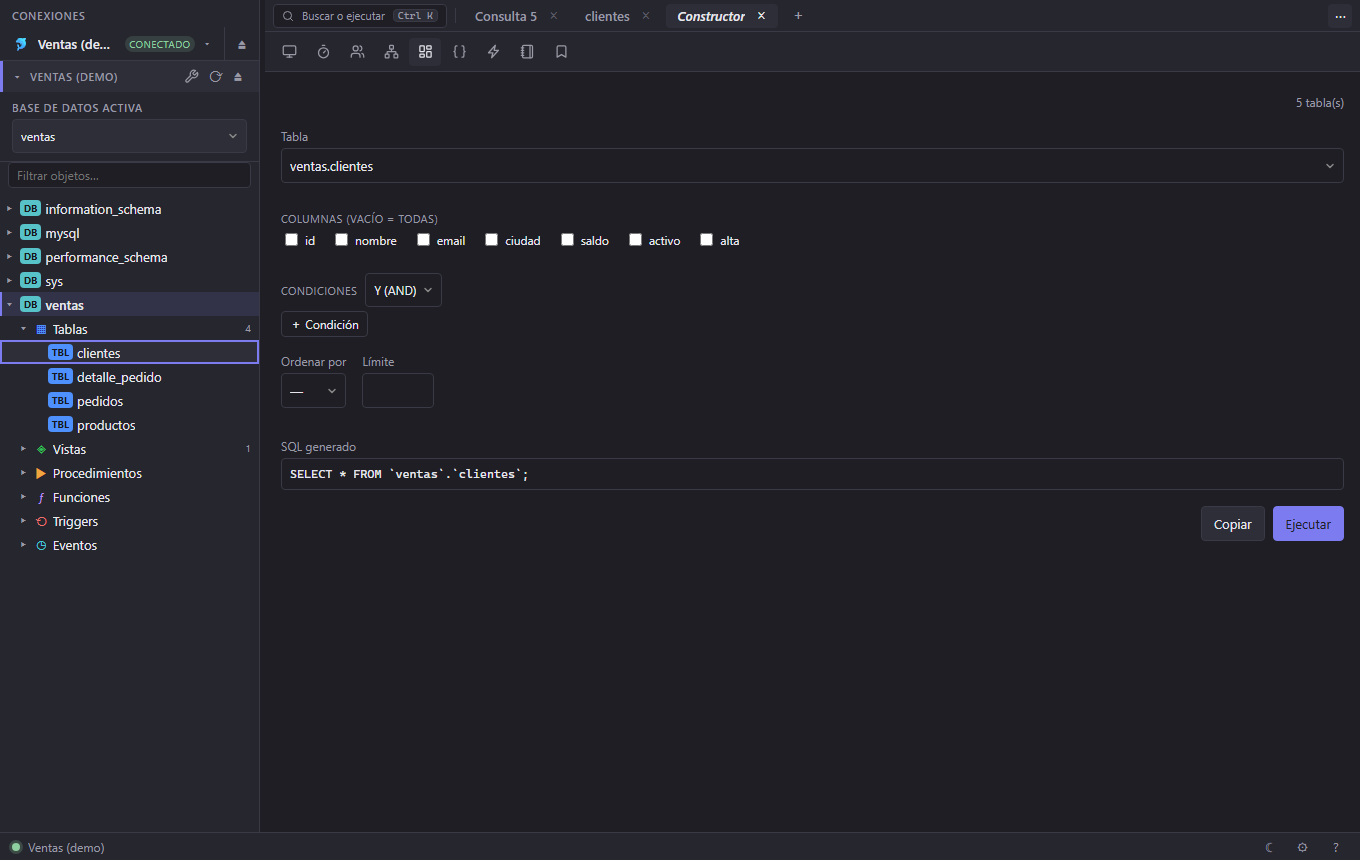
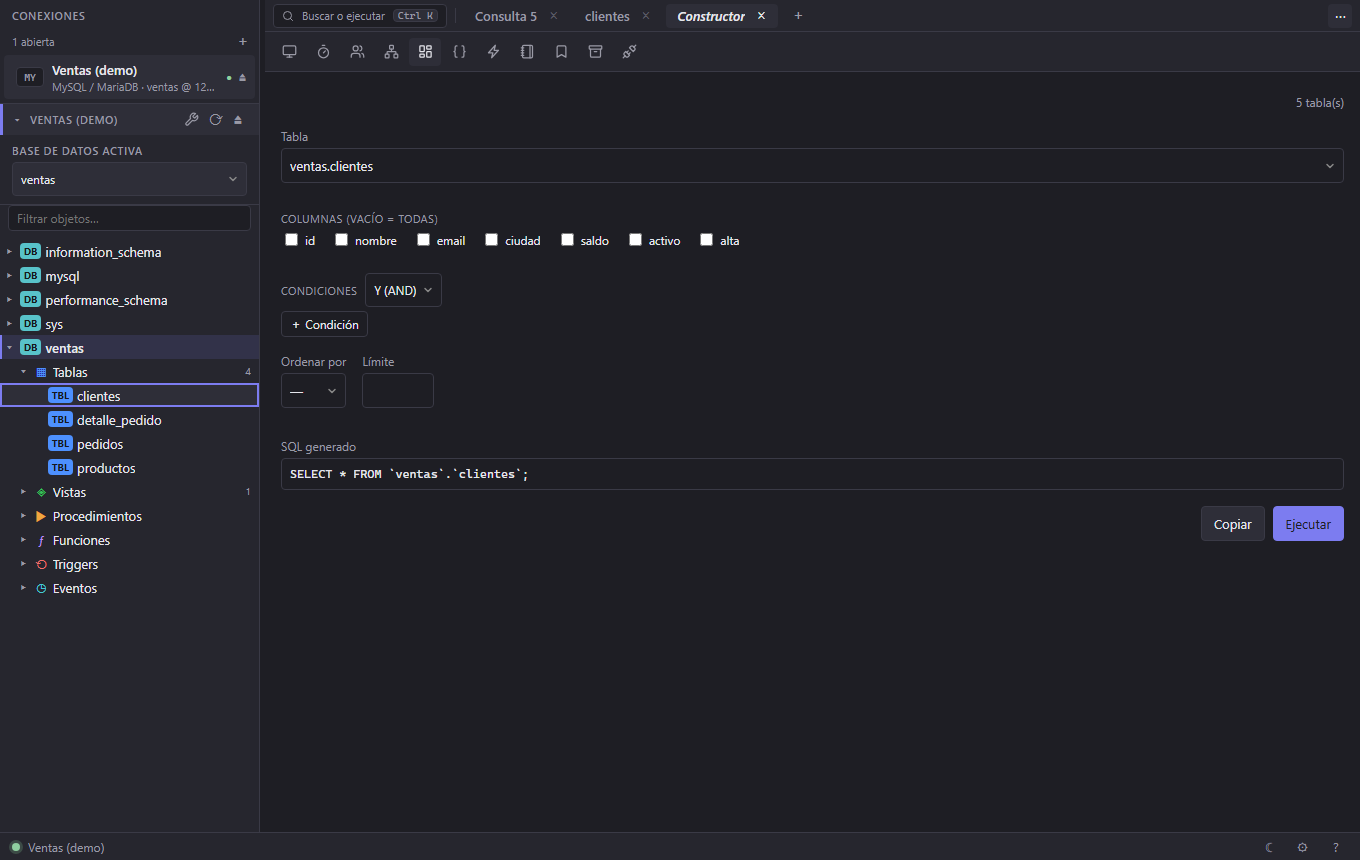
docs(manual): describe the connection bar, the search and the connections tab (refs #525)
Connecting is the first thing anyone does, and the manual still described the
gesture that is gone: open the Conexiones panel, then Conectar. There is no
panel now — the saved connections are a tab, and opening one goes through the
search behind the + in the sidebar.

Section 2 follows what the app actually does: the tab is where a connection is
created (and it is the one tool that works with nothing connected, because it
is where the first one is created), saving lands back on the list, and a new
"Abrir una conexión" explains the search — narrowing by name, engine or
server, ignoring case and accents, several words narrowing rather than adding,
the arrows and Enter, and what the "Abierta" mark means.

"Varias conexiones a la vez" now says what the bar does: one row per open
connection, a click moves the FOCUS without opening or closing anything, each
connection gets its own collapsible section in the explorer, and a dropped
session offers to reconnect from its row.

"La ventana, por partes" was describing the ribbon of action buttons removed
back in #386 — and the connection selector that has not been in the top bar
since. Both corrected while the section was open.

Screenshots regenerated, since every one of them shows the sidebar, and copied
into site/img as docs/SITE.md says. Publishing the site is a separate step and
is not done here.

Changed region(s): [[0.0, 0.0302, 0.2162, 0.6953], [0.1544, 0.1209, 0.1853, 0.1512]]

diff --git a/site/manual/index.html b/site/manual/index.html
@@ -91,12 +91,13 @@
         <figcaption>La pantalla inicial. Todo empieza por crear una conexión.</figcaption>
       </figure>
       <ul>
-        <li><b>Barra superior</b> — la marca, el selector de conexión, los botones de
-          acción (<b>Consulta</b>, <b>Tabla</b>, <b>Objetos</b>) y
-          <b>Buscar o ejecutar</b> (<kbd>Ctrl</kbd>+<kbd>K</kbd>), que encuentra
-          objetos, herramientas y acciones sin quitar las manos del teclado.</li>
-        <li><b>Barra lateral</b> — el explorador: el árbol de objetos de la base
-          activa, y una tira plegable con las herramientas.</li>
+        <li><b>Barra superior</b> — <b>Buscar o ejecutar</b>
+          (<kbd>Ctrl</kbd>+<kbd>K</kbd>), que encuentra objetos, herramientas y
+          acciones sin quitar las manos del teclado; las pestañas abiertas; y
+          <b>⋯</b>, que despliega la tira de herramientas.</li>
+        <li><b>Barra lateral</b> — arriba, las <b>conexiones abiertas</b>: una fila
+          por cada una, con su motor y a qué servidor apunta. Debajo, el explorador,
+          con una sección plegable por conexión abierta.</li>
         <li><b>Centro</b> — las pestañas. Cada una es una consulta, los datos de una
           tabla o una herramienta, y queda atada a la conexión con la que se abrió.</li>
         <li><b>Barra de estado</b> — conexión activa, filas y columnas del último
@@ -122,15 +123,19 @@
       <h2>2. Conectar a una base</h2>
 
       <h3>Crear una conexión</h3>
+      <p>Las conexiones guardadas viven en su propia pestaña: ábrela con <b>⋯</b> y
+        luego <b>Conexiones</b>. Es la única herramienta que funciona sin estar
+        conectado a nada, porque es por donde se crea la primera.</p>
       <ol class="steps">
-        <li>Abre el panel <b>Conexiones</b> y pulsa <b>Nueva conexión</b>.</li>
+        <li>Pulsa <b>+ Nueva conexión</b>.</li>
         <li>Ponle <b>Nombre</b>, y si quieres un <b>Color</b>, un <b>Grupo</b> y un
           <b>Icono</b>. El color pinta la franja de la ventana cuando esa conexión
           tiene el foco — la forma más rápida de no ejecutar en producción creyendo
           que estás en pruebas. El grupo es solo un nombre: escribir uno nuevo lo crea.</li>
         <li>Elige el <b>Motor</b>. El formulario cambia a los campos que ese motor
           necesita (tabla de abajo).</li>
-        <li>Rellena los datos y guarda. Luego <b>Conectar</b>.</li>
+        <li>Rellena los datos y <b>guarda</b>: vuelves a la lista con la conexión
+          nueva ya en ella. Abrirla es el paso siguiente.</li>
       </ol>
 
       <table class="ref">
@@ -147,6 +152,20 @@
       <p>En los motores de servidor, el campo <b>Base de datos</b> se puede desplegar:
         cuando el resto de los datos ya son válidos, trae la lista real del servidor
         en vez de hacerte teclear el nombre.</p>
+
+      <h3>Abrir una conexión</h3>
+      <p>El <b>+</b> de la barra lateral abre el buscador. Escribe y se va acotando
+        por <b>nombre</b>, por <b>motor</b> o por <b>servidor</b>, sin distinguir
+        mayúsculas ni acentos: <i>nomina</i> encuentra <i>Nómina</i>. Varias palabras
+        estrechan, no suman — <i>ventas dev</i> pide las dos.</p>
+      <ul>
+        <li><kbd>↑</kbd> y <kbd>↓</kbd> recorren los resultados y <kbd>Enter</kbd>
+          abre el señalado; <kbd>Esc</kbd> cierra.</li>
+        <li>Las que ya están abiertas salen marcadas <b>Abierta</b>: elegir una de
+          esas no vuelve a conectar, solo te lleva a ella.</li>
+        <li>Al pie están <b>Nueva conexión</b>, <b>Importar</b> y <b>Gestionar</b>,
+          que llevan a la pestaña de conexiones.</li>
+      </ul>
 
       <h3>Conectar por un túnel SSH</h3>
       <p>Disponible en <b>todos los motores de servidor</b> (todos menos SQLite). En el mismo formulario, el bloque SSH:</p>
@@ -173,7 +192,7 @@
 
       <h3>Traerte las conexiones de otra herramienta</h3>
       <p>Mudarte no debería empezar por reteclear treinta servidores. <b>Importar</b>,
-        en el panel de conexiones, lee tres formatos y los reconoce por su contenido,
+        en la pestaña de conexiones, lee tres formatos y los reconoce por su contenido,
         no por la extensión:</p>
       <ul>
         <li>El <b>export de Squaero</b> (JSON).</li>
@@ -193,16 +212,23 @@
       </div>
 
       <h3>Llevártelas a otro equipo</h3>
-      <p><b>Exportar</b> guarda tus conexiones en un JSON. La casilla <b>Incluir
-        contraseñas</b> hace justo eso, y te avisa de lo que implica: quedan en
-        <b>texto plano</b> dentro del archivo. Sin marcarla, el archivo es seguro de
-        compartir y cada quien pone su contraseña al conectar.</p>
+      <p><b>Exportar</b>, en la misma pestaña, guarda tus conexiones en un JSON. La
+        casilla <b>Incluir contraseñas</b> hace justo eso, y te avisa de lo que
+        implica: quedan en <b>texto plano</b> dentro del archivo. Sin marcarla, el
+        archivo es seguro de compartir y cada quien pone su contraseña al conectar.</p>
 
       <h3>Varias conexiones a la vez</h3>
-      <p>Puedes tener abiertas todas las que quieras. Cada pestaña recuerda con qué
-        conexión nació y sigue trabajando contra ella aunque cambies el foco a otra,
-        así que una consulta de pruebas no se ejecuta sola en producción por haber
-        cambiado de conexión en la barra.</p>
+      <p>Puedes tener abiertas todas las que quieras, y la barra lateral las lista
+        todas: una fila por conexión, con su motor y a qué servidor apunta. Un clic
+        en una fila <b>cambia el foco</b> a esa conexión — no abre ni cierra nada—, y
+        el explorador de debajo le da a cada una su propia sección plegable, así que
+        la misma tabla se puede mirar en producción y en pruebas sin cambiar de sitio.</p>
+      <p>Cada fila lleva su <b>⏏</b> para cerrar esa conexión, y si el servidor deja
+        caer la sesión la fila lo dice y ofrece <b>reconectar</b> sin perder las
+        pestañas que colgaban de ella.</p>
+      <p>Cada pestaña recuerda con qué conexión nació y sigue trabajando contra ella
+        aunque cambies el foco a otra, así que una consulta de pruebas no se ejecuta
+        sola en producción por haber cambiado de conexión en la barra.</p>
     </section>
 
     <!-- 3 ─────────────────────────────────────────────────────────────── -->

diff --git a/openspec/changes/connection-bar-switcher/tasks.md b/openspec/changes/connection-bar-switcher/tasks.md
@@ -126,9 +126,16 @@ https://claude.ai/artifact/6FeFimonbnaQPURCWxgZR2.
       `seedConnections()` nuevo en `support/state.ts`
 - [ ] 5.4 Probado a mano en la ventana nativa (WebView2, build x86) con tres
       conexiones abiertas de motores distintos, una de ellas Informix
-- [ ] 5.5 Capturas regeneradas (`pnpm media`: `app-dark`, `app-light` e
-      `initial-dark` llevan la barra) y el manual al día («Varias conexiones a la
-      vez», «Crear una conexión», «Llevártelas a otro equipo»)
+- [x] 5.5 Capturas regeneradas (`pnpm media`: las ocho, copiadas a `site/img/`
+      según `docs/SITE.md`) y el manual al día: «Crear una conexión»,
+      «Llevártelas a otro equipo», «Varias conexiones a la vez» y un apartado
+      nuevo **«Abrir una conexión»** para el buscador, que no estaba documentado
+      en ninguna parte. De paso se corrigió «La ventana, por partes», que aún
+      describía la cinta de botones retirada en **#386**.
+      **Las capturas necesitan su propio contenedor**, separado del de pruebas
+      para que la base de test no salga en las imágenes:
+      `docker start quaero-demo-mysql` (13307).
+      **Falta republicar el sitio** (`site/publish.sh`), que es un paso aparte
 - [x] 5.6 Resueltas en `design.md`: el grupo **no** va en la fila (es criterio de
       búsqueda, no de reconocimiento); el atajo del buscador queda **aplazado** a
       un issue propio, porque comprobar que `Mod+Shift+O` está libre exige la
